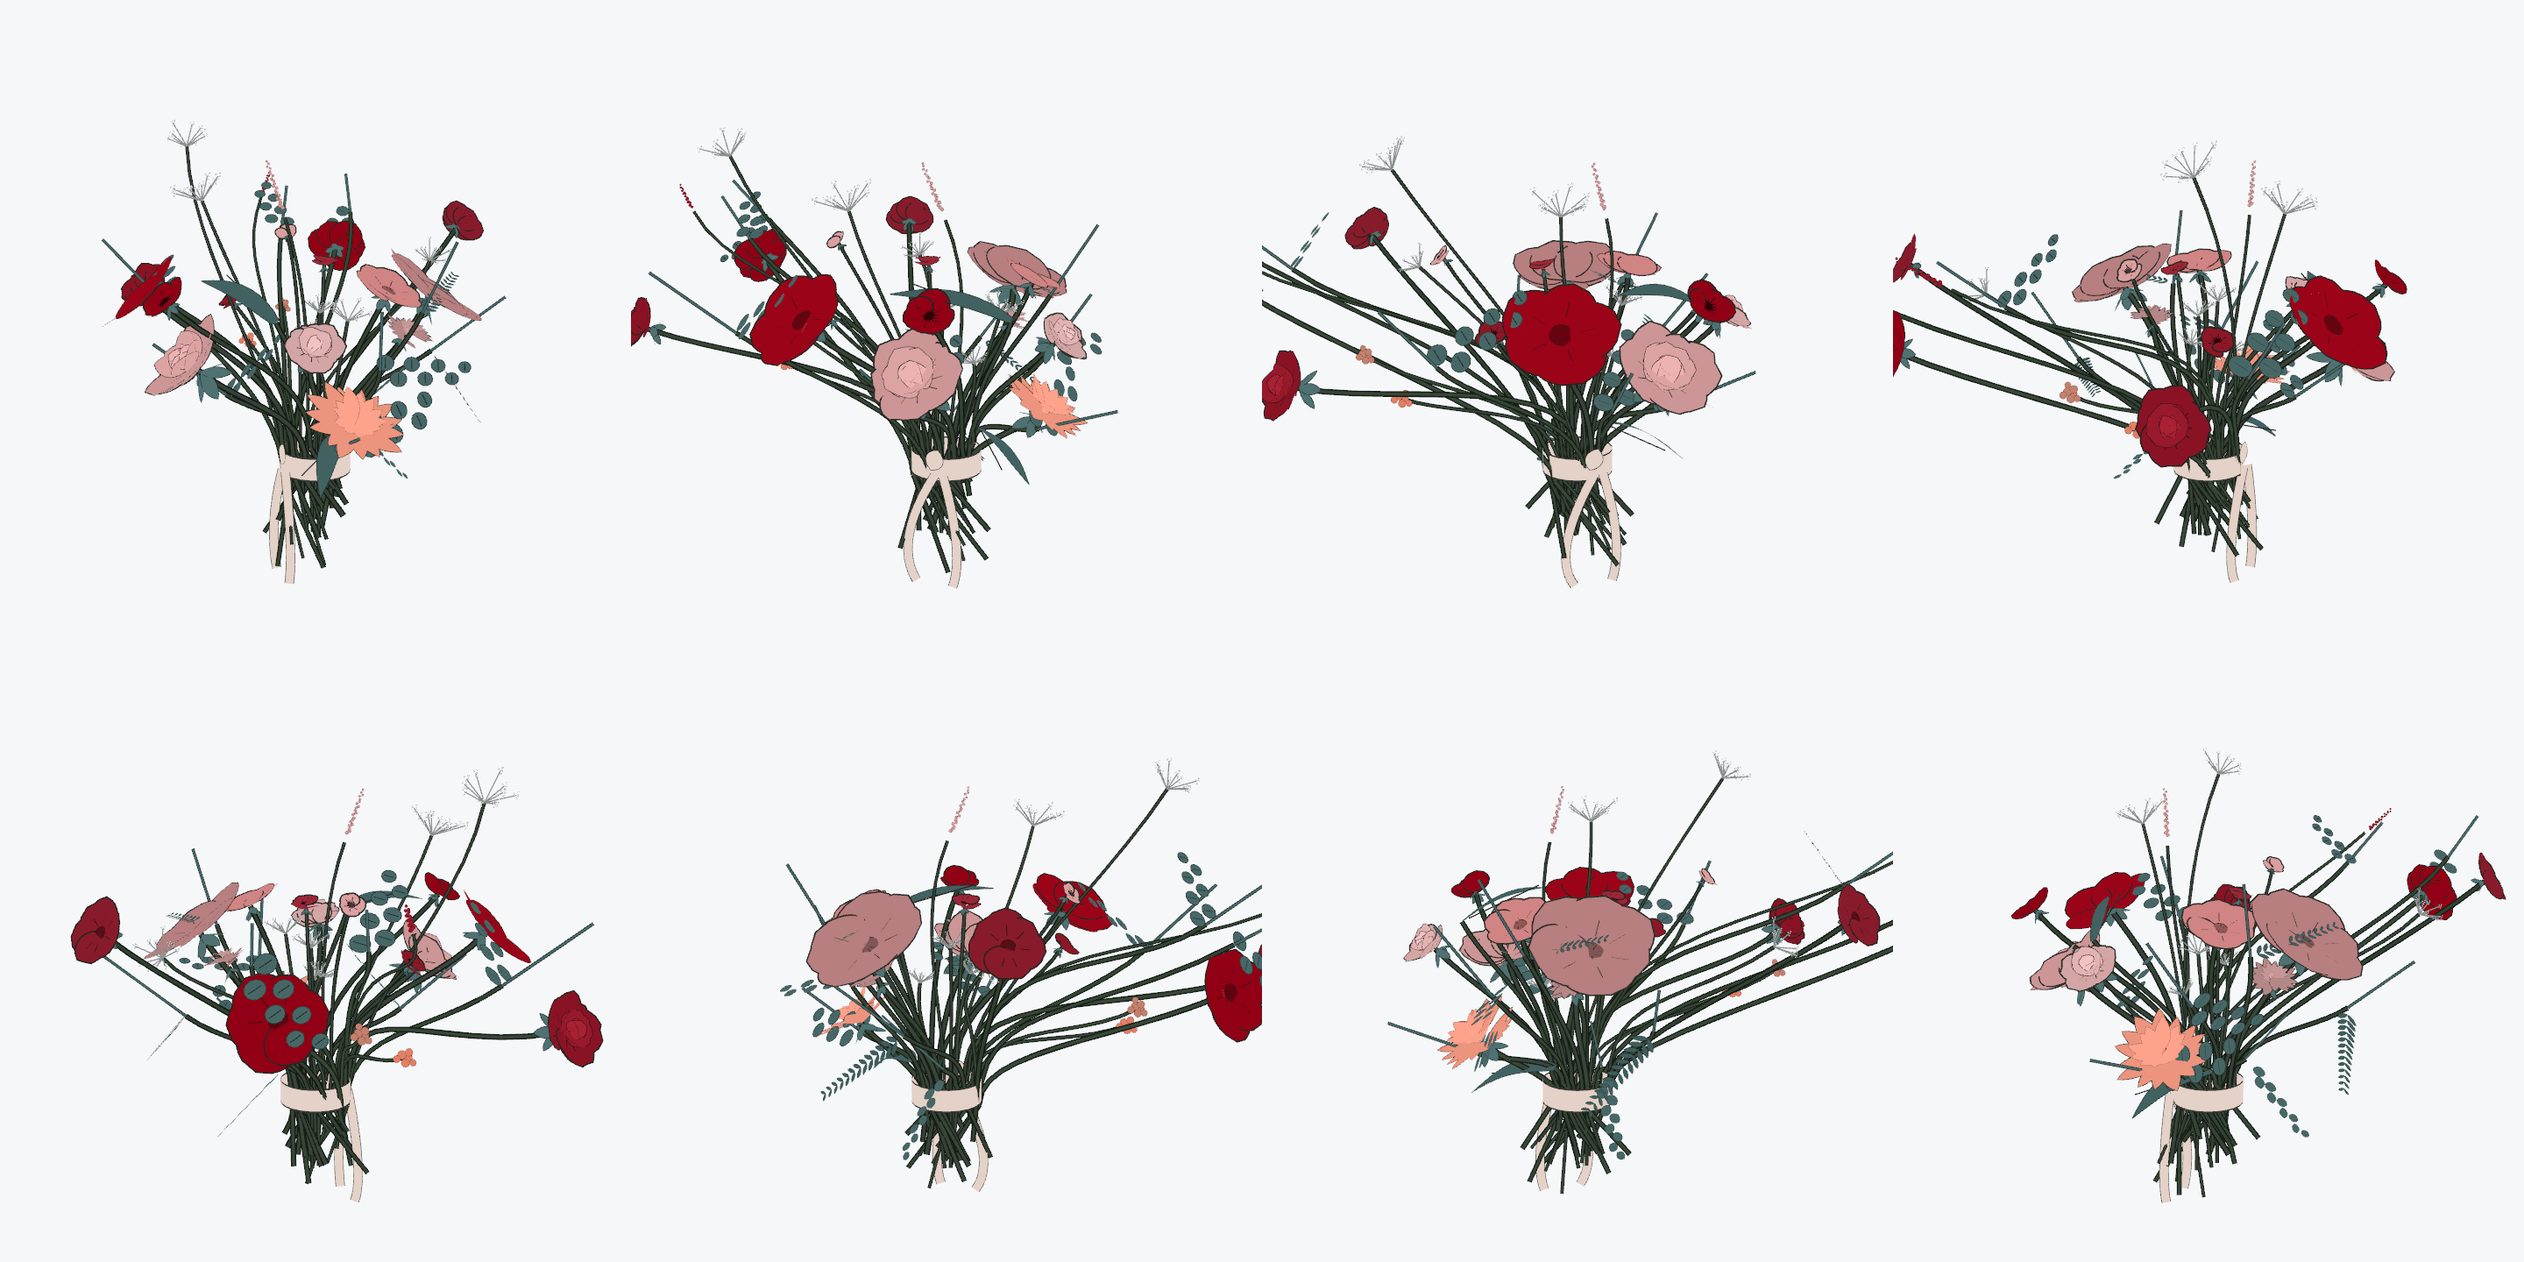
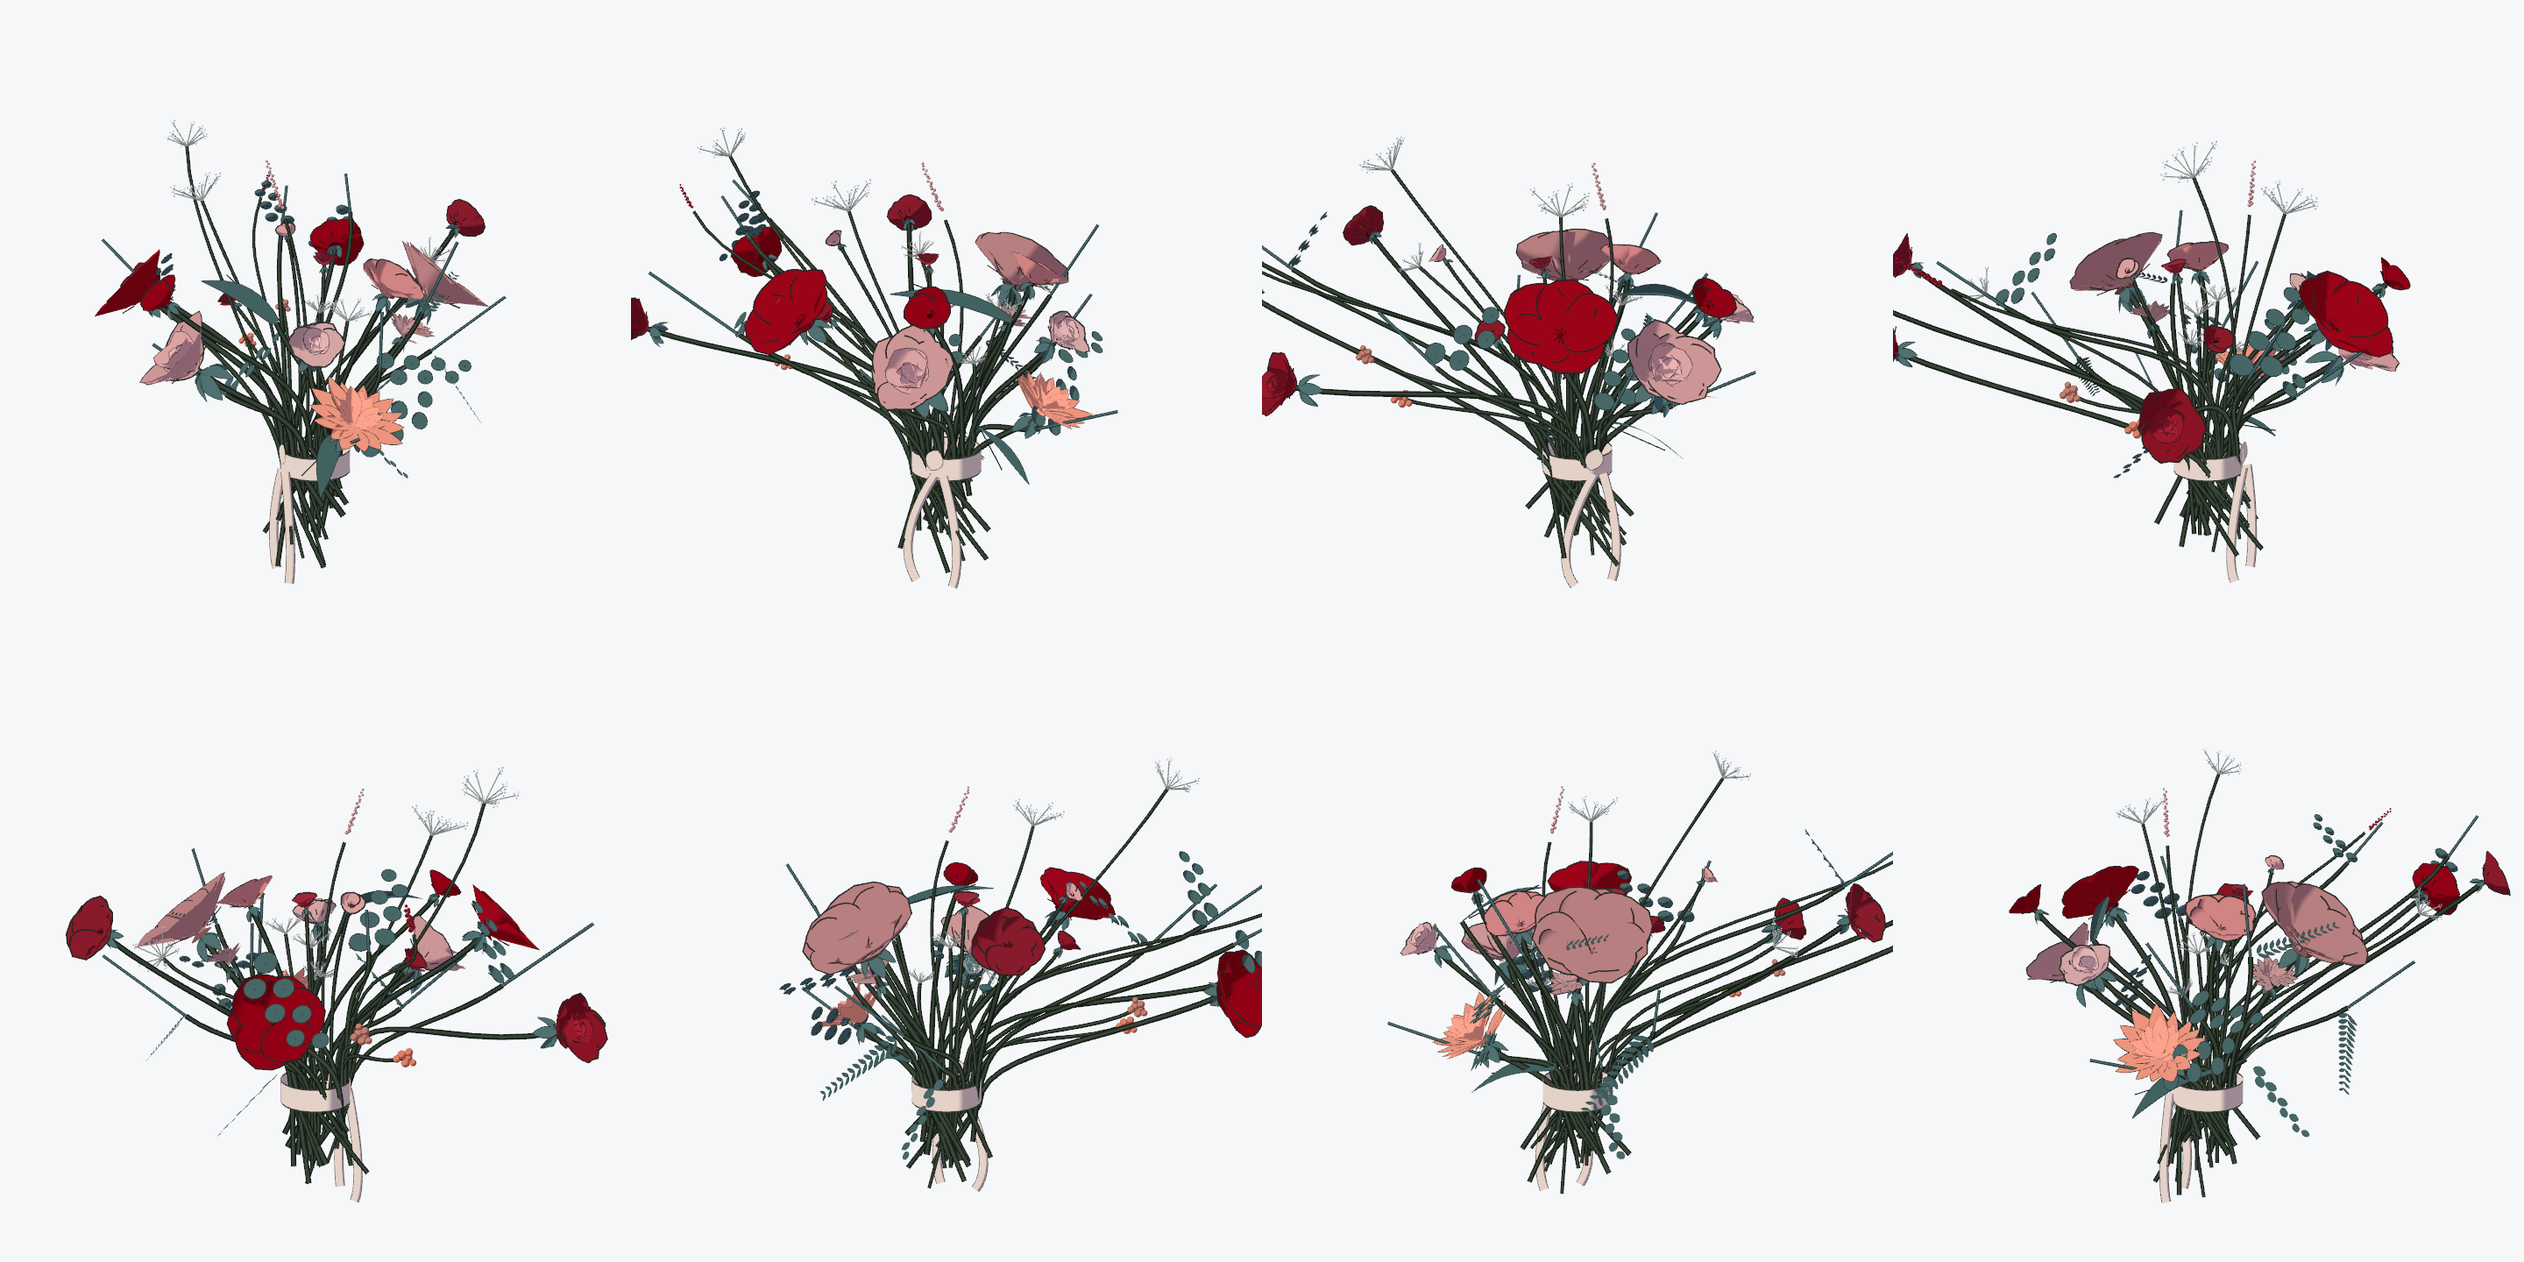
feat: light the bouquet in two tones so its forms read as volume

diff --git a/Assets/Scripts/BouquetShapes.cs b/Assets/Scripts/BouquetShapes.cs
@@ -10,6 +10,7 @@ public static class BouquetShapes
     private const int PetalSteps = 11;
     private const int DiscSteps = 16;
     private const int RibbonSteps = 12;
+    private const float BladeFold = 0.7f;
 
     // a petal is fat in the middle and closes at both ends, which reads as drawn;
     // an ellipse reads as a mathematical blob
@@ -63,8 +64,15 @@ public static class BouquetShapes
     public static void AddBillboardShape(MeshBuffer mesh, Vector3 anchor, Vector2 centre, IReadOnlyList<Vector2> rim,
         Color fill, float outlineWeight, float depthBias)
     {
+        float radius = 1e-5f;
+        for (int i = 0; i < rim.Count; i++)
+        {
+            radius = Mathf.Max(radius, (rim[i] - centre).magnitude);
+        }
+
         int first = mesh.VertexCount;
-        mesh.AddVertex(anchor, new Vector3(centre.x, centre.y, 0.0f), Vector4.zero, fill, StrokeKind.Billboard, 0.0f, 0.0f, depthBias);
+        mesh.AddVertex(anchor, new Vector3(centre.x, centre.y, 0.0f), Vector4.zero, fill, StrokeKind.Billboard, 0.0f, 0.0f, depthBias,
+            Shading.Sphere(Vector2.zero));
 
         for (int i = 0; i < rim.Count; i++)
         {
@@ -80,7 +88,7 @@ public static class BouquetShapes
             }
 
             mesh.AddVertex(anchor, new Vector3(point.x, point.y, 0.0f), new Vector4(outward.x, outward.y, 0.0f, 0.0f),
-                fill, StrokeKind.Billboard, 0.0f, outlineWeight, depthBias);
+                fill, StrokeKind.Billboard, 0.0f, outlineWeight, depthBias, Shading.Sphere((point - centre) / radius));
         }
 
         for (int i = 0; i < rim.Count; i++)
@@ -123,11 +131,12 @@ public static class BouquetShapes
     }
 
     public static void AddCardShape(MeshBuffer mesh, Matrix4x4 frame, IReadOnlyList<Vector2> rim, Vector2 centre,
-        Color fill, float outlineWeight, float depthBias)
+        Color fill, float outlineWeight, float depthBias, Bend bend = default)
     {
         int first = mesh.VertexCount;
         mesh.SetFacing(frame.MultiplyVector(Vector3.forward).normalized);
-        mesh.AddVertex(frame.MultiplyPoint3x4(centre), Vector3.zero, Vector4.zero, fill, StrokeKind.Card, 0.0f, 0.0f, depthBias);
+        mesh.AddVertex(frame.MultiplyPoint3x4(bend.Lift(centre)), Vector3.zero, Vector4.zero, fill, StrokeKind.Card, 0.0f, 0.0f, depthBias,
+            Shading.Surface(frame.MultiplyVector(bend.Normal(centre)).normalized));
 
         for (int i = 0; i < rim.Count; i++)
         {
@@ -142,8 +151,8 @@ public static class BouquetShapes
                 outward = -outward;
             }
 
-            mesh.AddVertex(frame.MultiplyPoint3x4(point), frame.MultiplyVector(outward).normalized, Vector4.zero,
-                fill, StrokeKind.Card, 0.0f, outlineWeight, depthBias);
+            mesh.AddVertex(frame.MultiplyPoint3x4(bend.Lift(point)), frame.MultiplyVector(outward).normalized, Vector4.zero,
+                fill, StrokeKind.Card, 0.0f, outlineWeight, depthBias, Shading.Surface(frame.MultiplyVector(bend.Normal(point)).normalized));
         }
 
         mesh.SetFacing(Vector3.zero);
@@ -190,8 +199,8 @@ public static class BouquetShapes
             Vector3 behind = points[Mathf.Max(i - 1, 0)];
             Vector3 tangent = Vector3.Normalize(ahead - behind);
 
-            mesh.AddVertex(point, Vector3.zero, new Vector4(tangent.x, tangent.y, tangent.z, -1.0f), fill, StrokeKind.Stem, halfWidth, outlineWeight, depthBias);
-            mesh.AddVertex(point, Vector3.zero, new Vector4(tangent.x, tangent.y, tangent.z, 1.0f), fill, StrokeKind.Stem, halfWidth, outlineWeight, depthBias);
+            mesh.AddVertex(point, Vector3.zero, new Vector4(tangent.x, tangent.y, tangent.z, -1.0f), fill, StrokeKind.Stem, halfWidth, outlineWeight, depthBias, Shading.Tube);
+            mesh.AddVertex(point, Vector3.zero, new Vector4(tangent.x, tangent.y, tangent.z, 1.0f), fill, StrokeKind.Stem, halfWidth, outlineWeight, depthBias, Shading.Tube);
 
             if (i > 0)
             {
@@ -239,8 +248,11 @@ public static class BouquetShapes
             Vector3 right = frame.MultiplyPoint3x4(spine + new Vector3(half, 0.0f, 0.0f));
 
             Vector3 outward = frame.MultiplyVector(Vector3.right).normalized;
-            mesh.AddVertex(left, -outward, Vector4.zero, fill, StrokeKind.Card, 0.0f, outlineWeight, 0.0f);
-            mesh.AddVertex(right, outward, Vector4.zero, fill, StrokeKind.Card, 0.0f, outlineWeight, 0.0f);
+            Vector3 face = frame.MultiplyVector(Vector3.forward).normalized;
+            mesh.AddVertex(left, -outward, Vector4.zero, fill, StrokeKind.Card, 0.0f, outlineWeight, 0.0f,
+                Shading.Surface(Vector3.Normalize(face - outward * BladeFold)));
+            mesh.AddVertex(right, outward, Vector4.zero, fill, StrokeKind.Card, 0.0f, outlineWeight, 0.0f,
+                Shading.Surface(Vector3.Normalize(face + outward * BladeFold)));
 
             if (i > 0)
             {
@@ -258,5 +270,38 @@ public static class BouquetShapes
         right = Vector3.Normalize(right * Mathf.Cos(roll) + up * Mathf.Sin(roll));
         up = Vector3.Cross(axis, right);
         return new Matrix4x4(right, up, axis, new Vector4(origin.x, origin.y, origin.z, 1.0f));
+    }
+}
+
+// a card bowed into a shallow paraboloid around a pivot. the rim barely moves, but
+// the normals turn across the surface and that is what the light reads as form
+public readonly struct Bend
+{
+    private readonly Vector2 pivot;
+    private readonly float along;
+    private readonly float across;
+
+    public Bend(Vector2 pivot, float along, float across)
+    {
+        this.pivot = pivot;
+        this.along = along;
+        this.across = across;
+    }
+
+    public static Bend Bowl(Vector2 pivot, float depth)
+    {
+        return new Bend(pivot, depth, depth);
+    }
+
+    public Vector3 Lift(Vector2 point)
+    {
+        Vector2 local = point - pivot;
+        return new Vector3(point.x, point.y, along * local.x * local.x + across * local.y * local.y);
+    }
+
+    public Vector3 Normal(Vector2 point)
+    {
+        Vector2 local = point - pivot;
+        return new Vector3(-2.0f * along * local.x, -2.0f * across * local.y, 1.0f).normalized;
     }
 }

diff --git a/Assets/Scripts/BouquetFlora.cs b/Assets/Scripts/BouquetFlora.cs
@@ -35,6 +35,10 @@ public static class BouquetFlora
     private const float HeadAxis = 0.5f;
     private const float HeadLift = 0.55f;
     private const float HeadNod = 0.5f;
+    private const float PetalCurl = 0.22f;
+    private const float PetalHollow = 0.45f;
+    private const float DiscDome = 0.5f;
+    private const float LeafBowl = 0.35f;
 
     public static float TipReserve(Species species)
     {
@@ -118,6 +122,11 @@ public static class BouquetFlora
              * Matrix4x4.Rotate(Quaternion.AngleAxis(-cup, Vector3.up));
     }
 
+    private static Bend PetalBend(float length, float width, float curl)
+    {
+        return new Bend(Vector2.zero, curl / length, PetalHollow / Mathf.Max(width, 1e-4f));
+    }
+
     private static float PetalTurn(int petals, int p, float phase, float rollJitter, int salt)
     {
         float wiggle = Hash(salt + p, 31, p * 7 + 3);
@@ -134,7 +143,8 @@ public static class BouquetFlora
 
             Vector2[] rim = BouquetShapes.PetalRim(ring.length * scale, ring.width * scale, ring.tipSharp, skew);
             Matrix4x4 frame = PetalFrame(head, ring.layer + p * PetalStep, turn, ring.cup);
-            BouquetShapes.AddCardShape(mesh, frame, rim, new Vector2(ring.length * scale * 0.45f, 0.0f), fill, outlineWeight, 0.0f);
+            BouquetShapes.AddCardShape(mesh, frame, rim, new Vector2(ring.length * scale * 0.45f, 0.0f), fill, outlineWeight, 0.0f,
+                PetalBend(ring.length * scale, ring.width * scale, PetalCurl));
         }
     }
 
@@ -153,7 +163,8 @@ public static class BouquetFlora
     private static void HeadDisc(MeshBuffer mesh, Matrix4x4 head, float radius, float lift, Color fill, float outlineWeight)
     {
         Matrix4x4 frame = head * Matrix4x4.Translate(new Vector3(0.0f, 0.0f, lift));
-        BouquetShapes.AddCardShape(mesh, frame, BouquetShapes.CircleRim(radius, DiscSteps, 1.0f), Vector2.zero, fill, outlineWeight, 0.0f);
+        BouquetShapes.AddCardShape(mesh, frame, BouquetShapes.CircleRim(radius, DiscSteps, 1.0f), Vector2.zero, fill, outlineWeight, 0.0f,
+            Bend.Bowl(Vector2.zero, -DiscDome / radius));
     }
 
     private static void Stamens(MeshBuffer mesh, Matrix4x4 head, StamenSpec spec, Color ink, float detailWidth)
@@ -180,7 +191,8 @@ public static class BouquetFlora
             float length = size * (0.58f + 0.20f * Hash(salt + p, 34, p * 5 + 1));
             Vector2[] rim = BouquetShapes.PetalRim(length, size * 0.15f, 0.80f, 0.0f);
             Matrix4x4 frame = PetalFrame(head, -SepalDrop - p * PetalStep, turn, -SepalReflex);
-            BouquetShapes.AddCardShape(mesh, frame, rim, new Vector2(length * 0.45f, 0.0f), sepal, Outline.Contour, 0.0f);
+            BouquetShapes.AddCardShape(mesh, frame, rim, new Vector2(length * 0.45f, 0.0f), sepal, Outline.Contour, 0.0f,
+                PetalBend(length, size * 0.15f, -PetalCurl));
         }
     }
 
@@ -392,7 +404,7 @@ public static class BouquetFlora
             Matrix4x4 leaf = frame * Matrix4x4.Translate(new Vector3(0.0f, 0.0f, 0.0f));
 
             BouquetShapes.AddCardShape(mesh, leaf, Offset(BouquetShapes.CircleRim(radius, 13, 0.88f), at), at,
-                palette.leaf, Outline.Contour, (i + 1) * BouquetShapes.LayerStep * 0.5f);
+                palette.leaf, Outline.Contour, (i + 1) * BouquetShapes.LayerStep * 0.5f, Bend.Bowl(at, LeafBowl / radius));
             BouquetShapes.AddCardLine(mesh, leaf, new[] { at - new Vector2(side * radius * 0.7f, 0.0f), at + new Vector2(side * radius * 0.7f, 0.0f) },
                 palette.ink, detailWidth, (i + 1) * BouquetShapes.LayerStep * 0.5f + BouquetShapes.LayerStep * 0.25f);
         }
@@ -423,8 +435,9 @@ public static class BouquetFlora
                     rim[k] = BouquetShapes.Rotate(rim[k], turn) + root;
                 }
 
-                BouquetShapes.AddCardShape(mesh, frame, rim, root + BouquetShapes.Rotate(new Vector2(length * 0.45f, 0.0f), turn),
-                    blade, Outline.Small, (i + 1) * BouquetShapes.LayerStep * 0.4f);
+                Vector2 middle = root + BouquetShapes.Rotate(new Vector2(length * 0.45f, 0.0f), turn);
+                BouquetShapes.AddCardShape(mesh, frame, rim, middle,
+                    blade, Outline.Small, (i + 1) * BouquetShapes.LayerStep * 0.4f, Bend.Bowl(middle, LeafBowl / length));
             }
         }
     }
@@ -467,8 +480,9 @@ public static class BouquetFlora
                 rim[k] = BouquetShapes.Rotate(rim[k], turn) + root;
             }
 
-            BouquetShapes.AddCardShape(mesh, frame, rim, root + BouquetShapes.Rotate(new Vector2(length * 0.45f, 0.0f), turn),
-                palette.leaf, Outline.Small, (i + 1) * BouquetShapes.LayerStep * 0.4f);
+            Vector2 middle = root + BouquetShapes.Rotate(new Vector2(length * 0.45f, 0.0f), turn);
+            BouquetShapes.AddCardShape(mesh, frame, rim, middle,
+                palette.leaf, Outline.Small, (i + 1) * BouquetShapes.LayerStep * 0.4f, Bend.Bowl(middle, LeafBowl / length));
         }
     }
 

diff --git a/Assets/Scripts/MeshBuffer.cs b/Assets/Scripts/MeshBuffer.cs
@@ -20,6 +20,22 @@ public static class Outline
     public const float None = 0.0f;
 }
 
+public static class Shading
+{
+    public static readonly Vector4 Flat = Vector4.zero;
+    public static readonly Vector4 Tube = new Vector4(0.0f, 0.0f, 0.0f, 3.0f);
+
+    public static Vector4 Surface(Vector3 normal)
+    {
+        return new Vector4(normal.x, normal.y, normal.z, 1.0f);
+    }
+
+    public static Vector4 Sphere(Vector2 offset)
+    {
+        return new Vector4(offset.x, offset.y, 0.0f, 2.0f);
+    }
+}
+
 public sealed class MeshBuffer
 {
     private readonly List<Vector3> positions = new List<Vector3>();
@@ -29,6 +45,7 @@ public sealed class MeshBuffer
     private readonly List<Vector4> strokes = new List<Vector4>();
     private readonly List<Vector4> inks = new List<Vector4>();
     private readonly List<Vector3> facings = new List<Vector3>();
+    private readonly List<Vector4> shadings = new List<Vector4>();
     private readonly List<int> indices = new List<int>();
 
     private Color ink = Color.black;
@@ -52,7 +69,7 @@ public sealed class MeshBuffer
     // the reference as sRGB, so the conversion happens once, here, or the whole
     // bouquet comes out pale
     public void AddVertex(Vector3 position, Vector3 expansion, Vector4 tangent, Color color,
-        StrokeKind kind, float width, float outlineWeight, float depthBias)
+        StrokeKind kind, float width, float outlineWeight, float depthBias, Vector4 shading = default)
     {
         positions.Add(position);
         expansions.Add(expansion);
@@ -62,6 +79,7 @@ public sealed class MeshBuffer
         Color line = ink.linear;
         inks.Add(new Vector4(line.r, line.g, line.b, 1.0f));
         facings.Add(facing);
+        shadings.Add(shading);
     }
 
     public void AddTriangle(int a, int b, int c)
@@ -88,6 +106,7 @@ public sealed class MeshBuffer
         mesh.SetUVs(0, strokes);
         mesh.SetUVs(1, inks);
         mesh.SetUVs(2, facings);
+        mesh.SetUVs(3, shadings);
         mesh.SetTriangles(indices, 0);
         mesh.RecalculateBounds();
     }

diff --git a/Assets/Scripts/BouquetGeometry.cs b/Assets/Scripts/BouquetGeometry.cs
@@ -291,8 +291,10 @@ public static class BouquetGeometry
             Vector3 rim = bind + outward * radius;
 
             mesh.SetInk(palette.Line(palette.ribbon, 0.34f));
-            mesh.AddVertex(rim + Vector3.down * halfHeight, Vector3.down, Vector4.zero, palette.ribbon, StrokeKind.Card, 0.0f, Outline.Silhouette, 0.0f);
-            mesh.AddVertex(rim + Vector3.up * halfHeight, Vector3.up, Vector4.zero, palette.ribbon, StrokeKind.Card, 0.0f, Outline.Silhouette, 0.0f);
+            mesh.AddVertex(rim + Vector3.down * halfHeight, Vector3.down, Vector4.zero, palette.ribbon, StrokeKind.Card, 0.0f, Outline.Silhouette, 0.0f,
+                Shading.Surface(outward));
+            mesh.AddVertex(rim + Vector3.up * halfHeight, Vector3.up, Vector4.zero, palette.ribbon, StrokeKind.Card, 0.0f, Outline.Silhouette, 0.0f,
+                Shading.Surface(outward));
 
             if (s > 0)
             {

diff --git a/Assets/Editor/DevTools/SceneBootstrap.cs b/Assets/Editor/DevTools/SceneBootstrap.cs
@@ -29,6 +29,8 @@ public static class SceneBootstrap
         BouquetPalette colors = BouquetPalette.Preset(2);
         Material bouquetMaterial = LoadOrCreate(shader, BouquetMaterialPath, colors.ink, 0.0021f);
         Material dialMaterial = LoadOrCreate(shader, DialMaterialPath, DialInk, DialLineWidth);
+        dialMaterial.SetFloat("_ShadeStrength", 0.0f);
+        EditorUtility.SetDirty(dialMaterial);
 
         var scene = EditorSceneManager.NewScene(NewSceneSetup.EmptyScene, NewSceneMode.Single);
 
